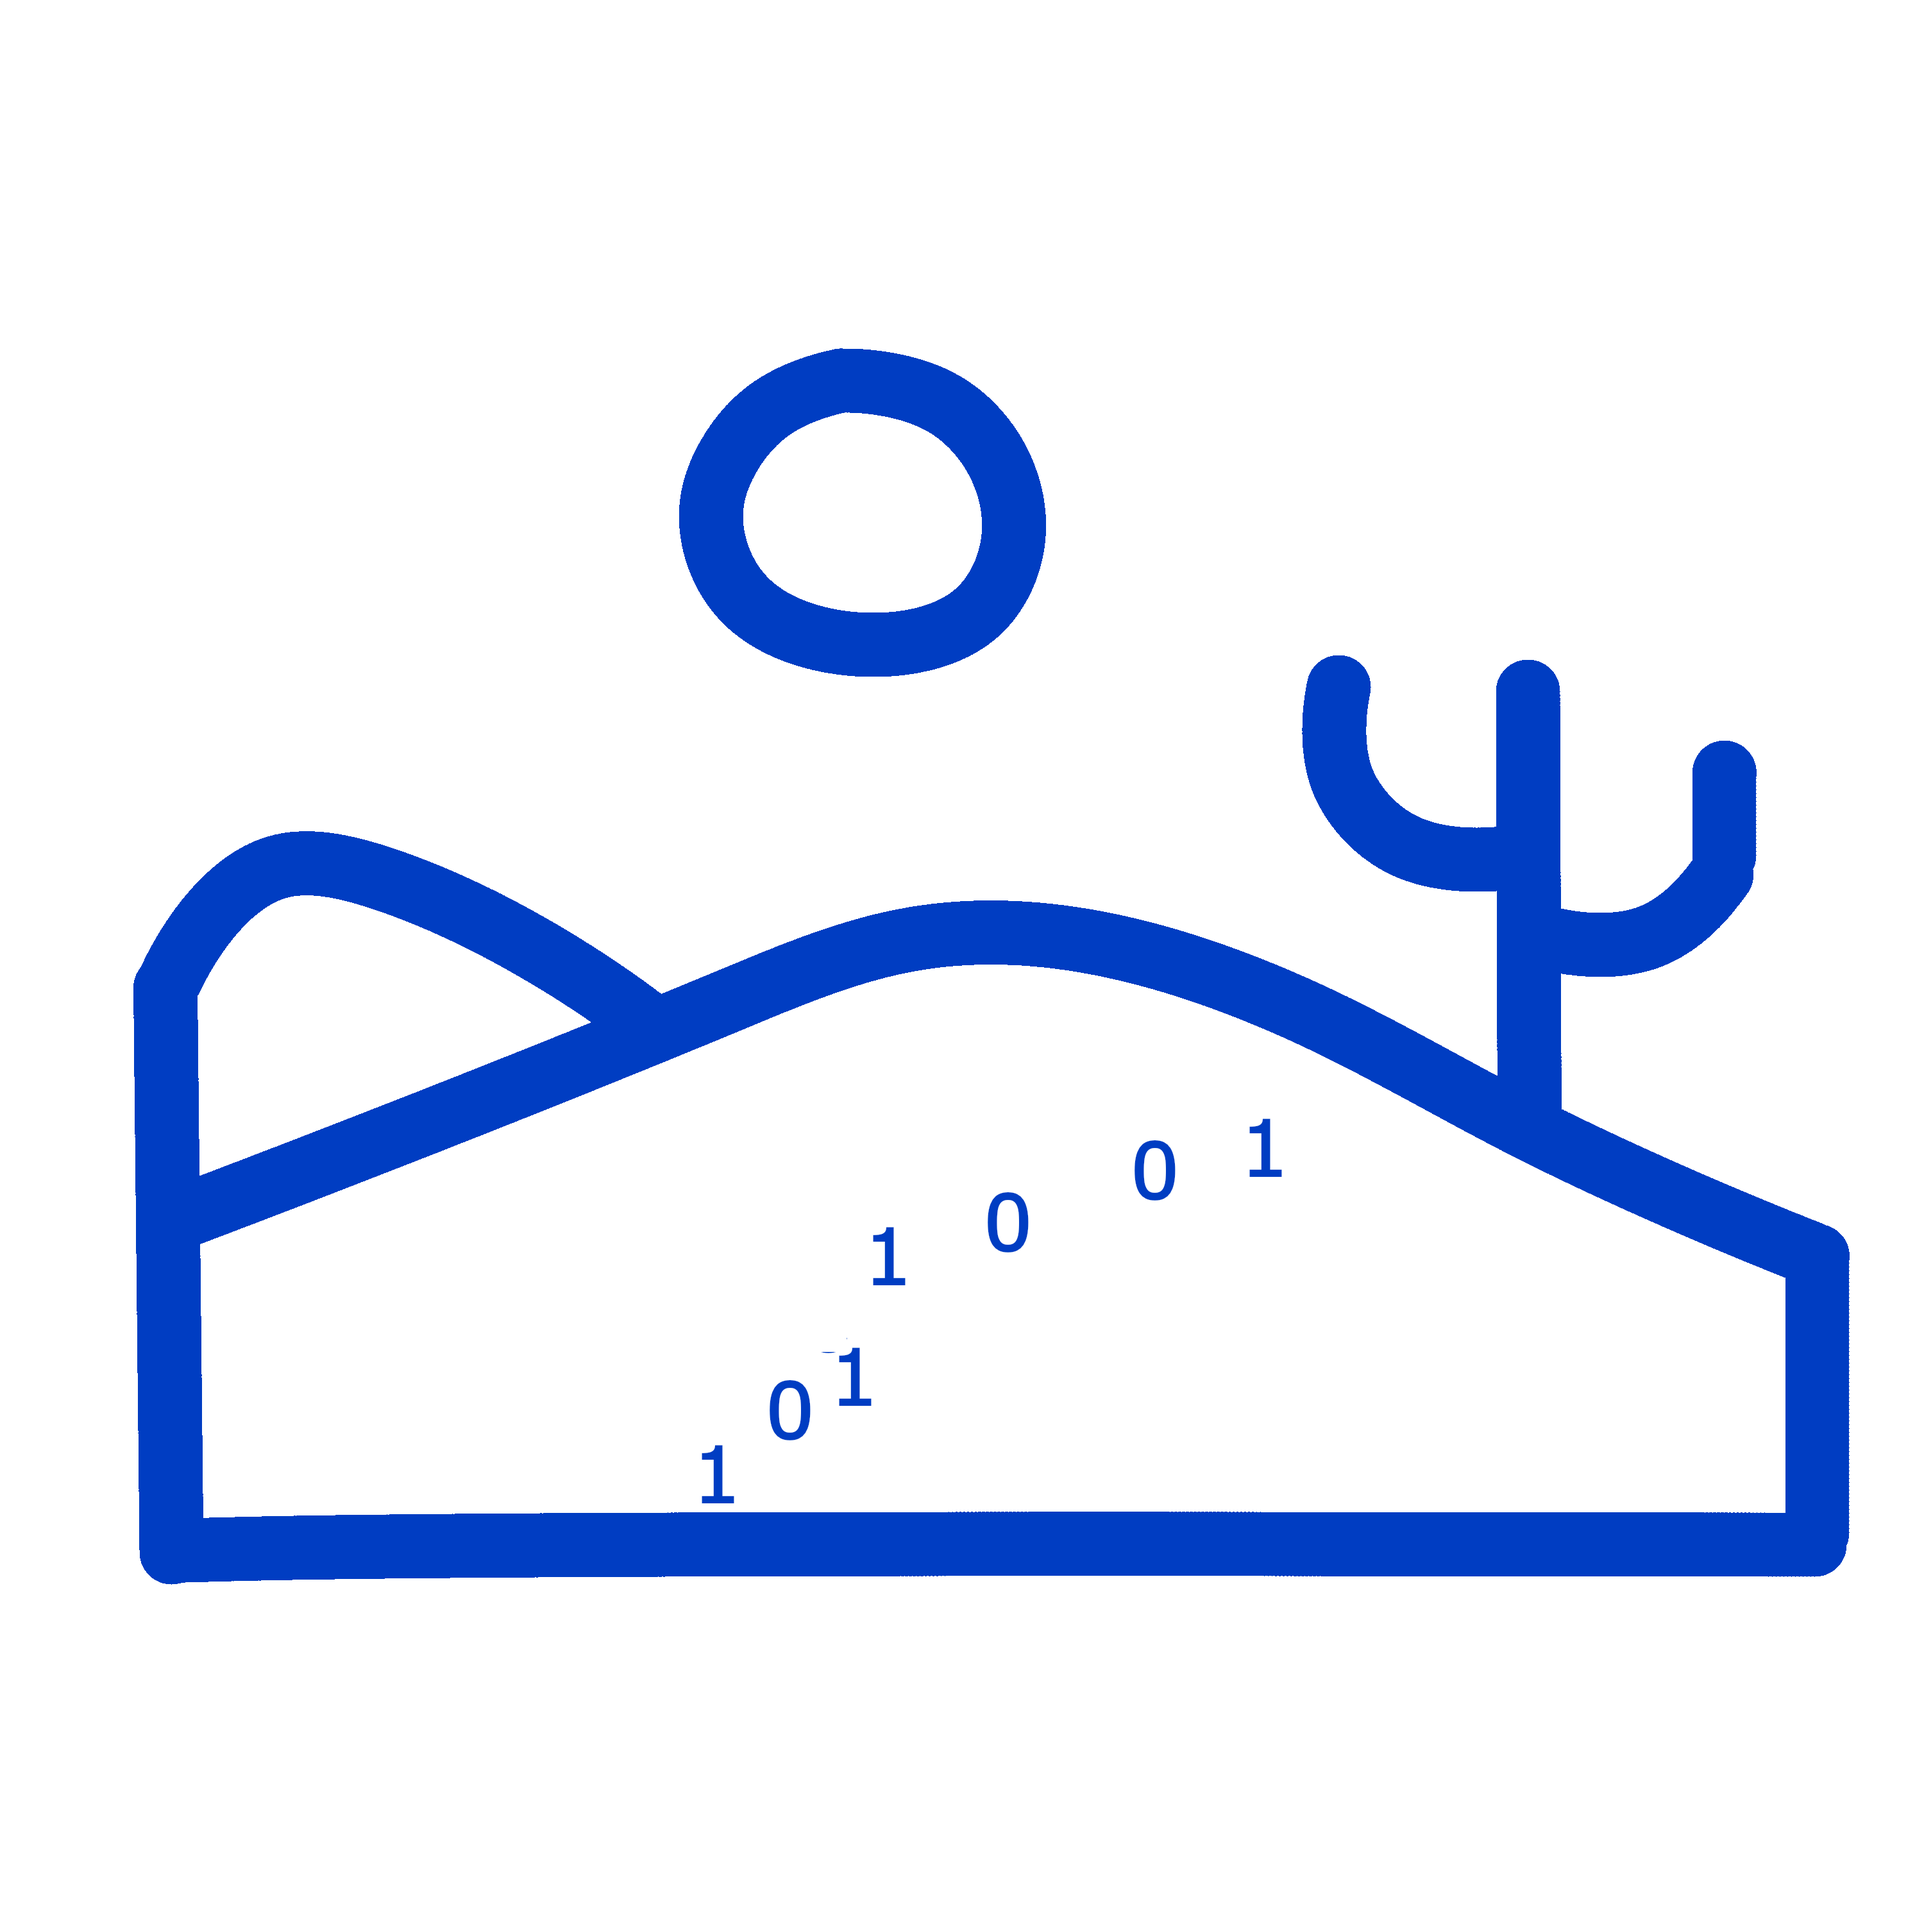
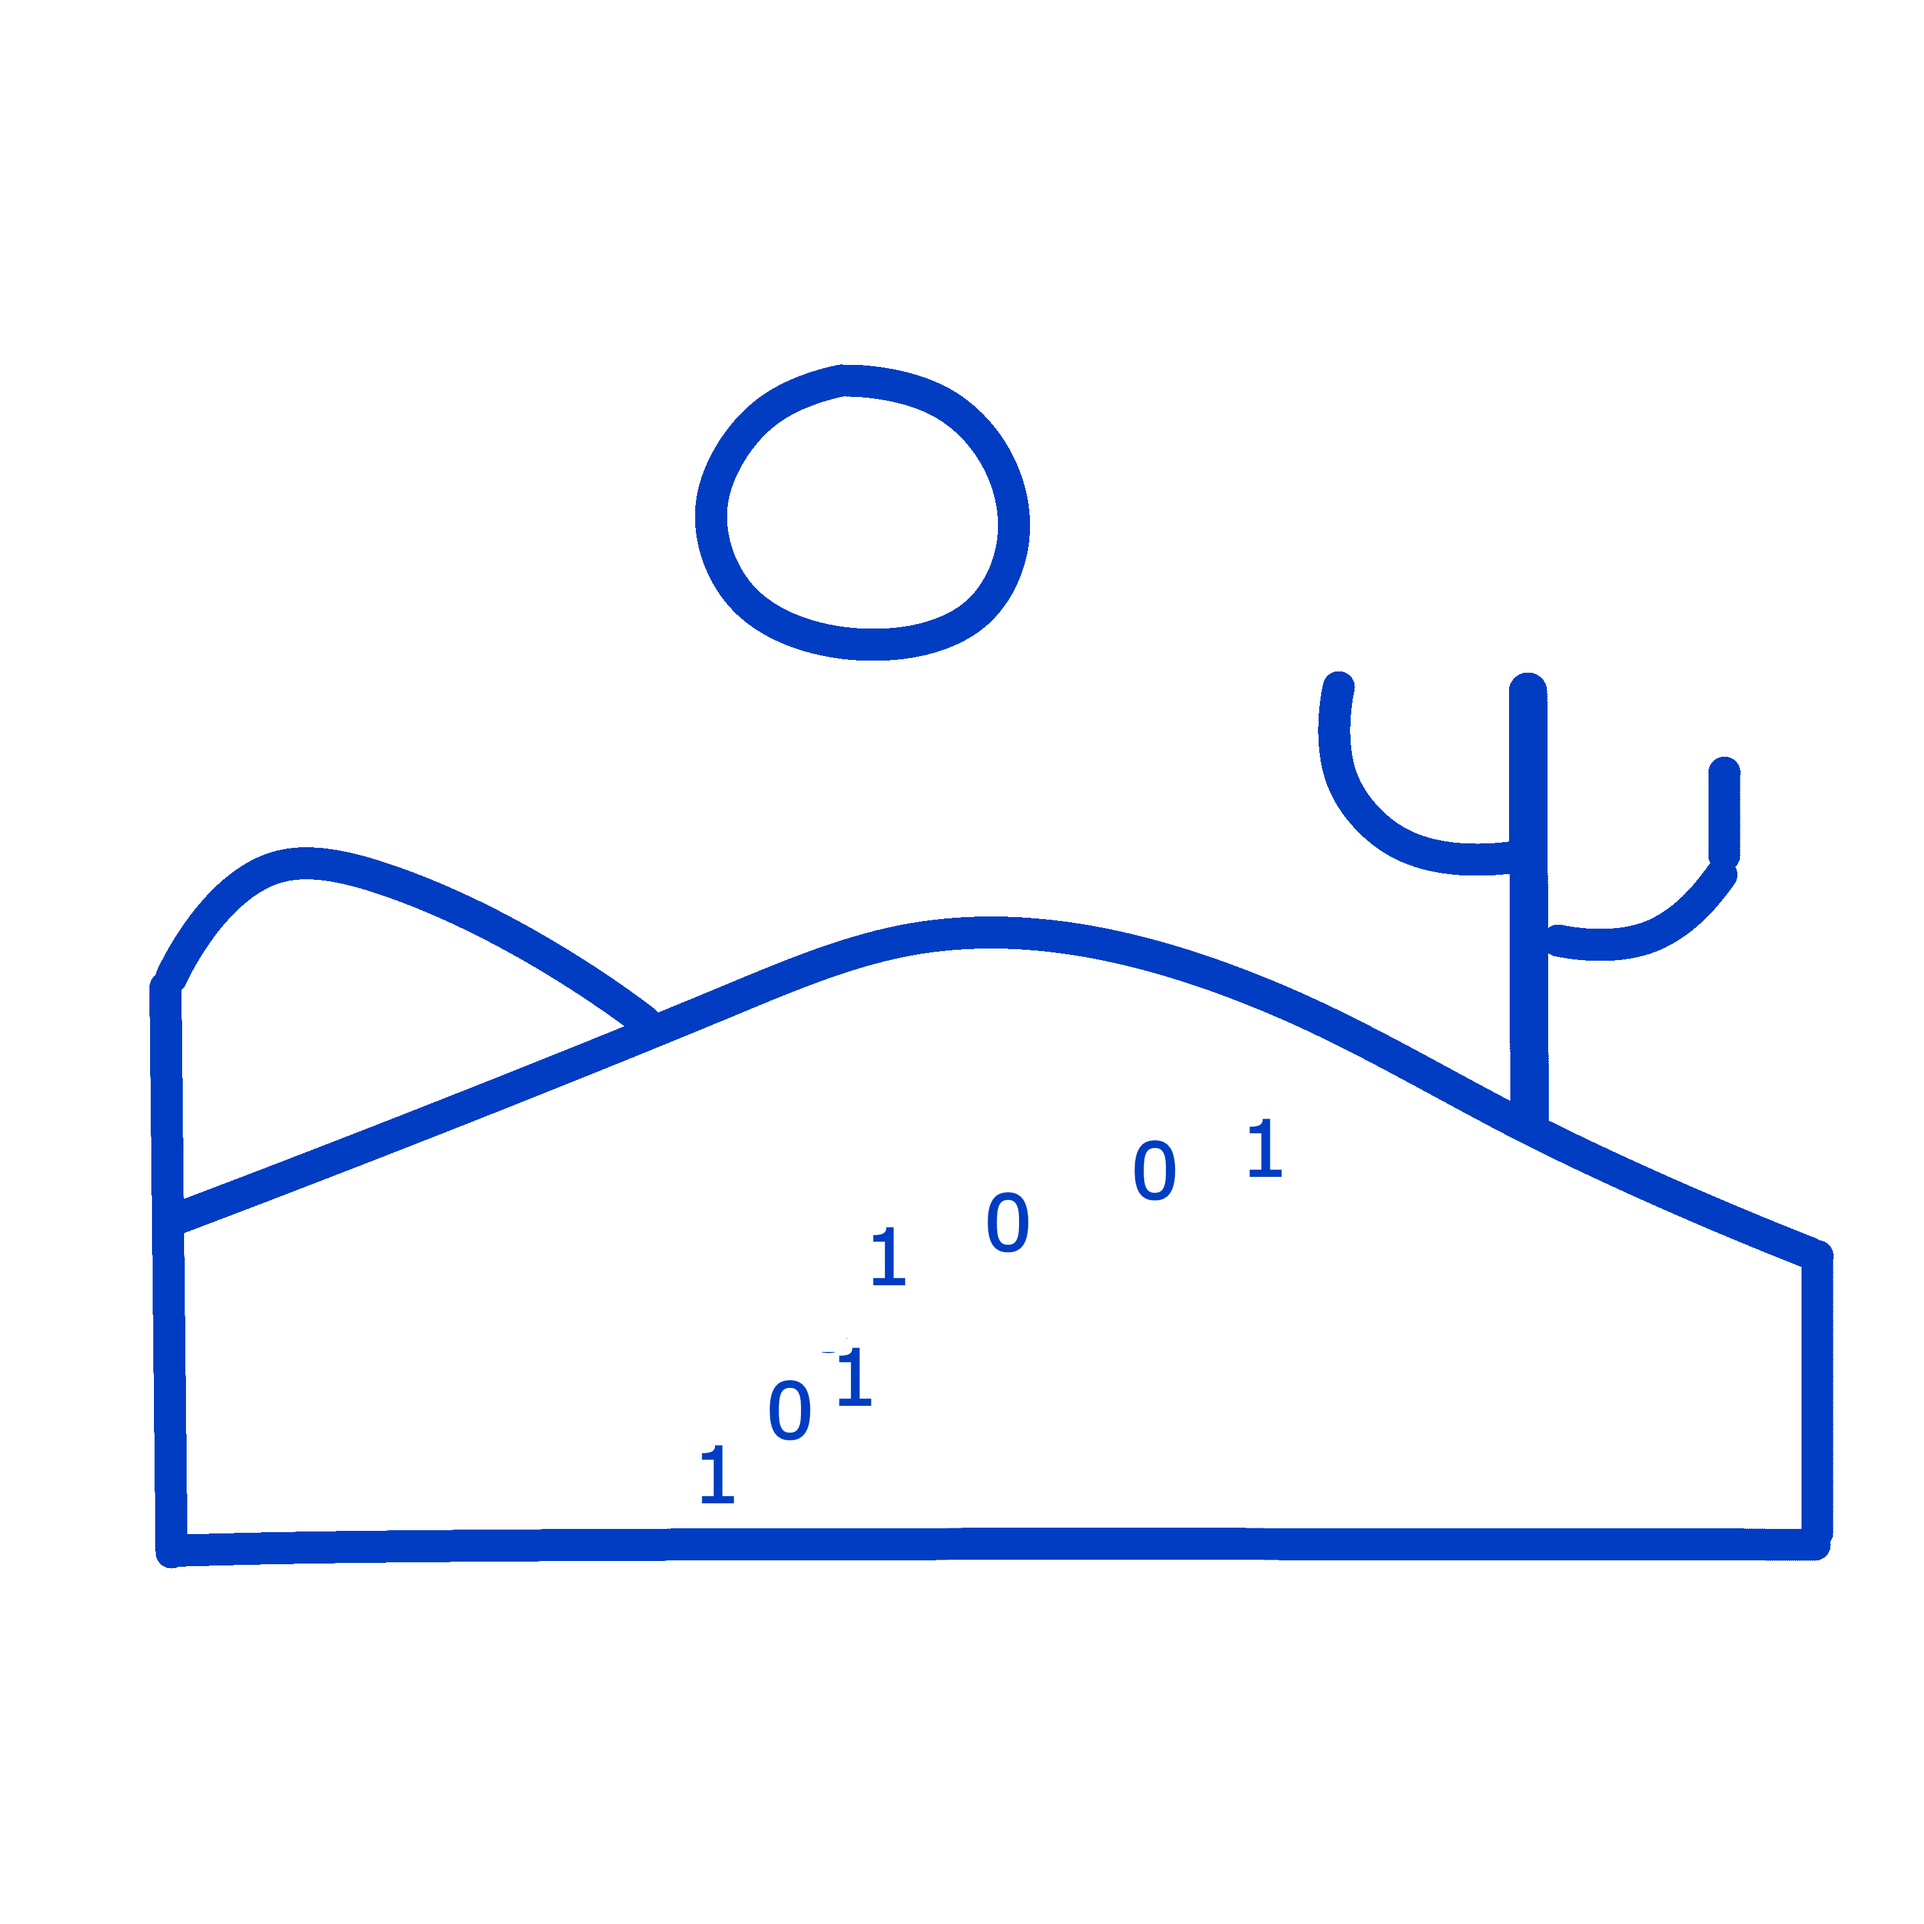
front

Changed region(s): [[0.062, 0.341, 0.961, 0.837], [0.341, 0.155, 0.558, 0.372]]

diff --git a/resources/js/components/EmptyIndexState.vue b/resources/js/components/EmptyIndexState.vue
@@ -27,6 +27,7 @@ import desertImage from '../assets/desert2.png'
   height: auto;
   object-fit: contain;
   opacity: 0.95;
+  animation: empty-float-up 4.8s ease-in-out infinite alternate;
 }
 
 .empty-title {
@@ -35,5 +36,20 @@ import desertImage from '../assets/desert2.png'
   font-size: 14px;
   font-weight: 600;
   text-align: center;
+}
+
+@keyframes empty-float-up {
+  from {
+    transform: translateY(8px);
+  }
+  to {
+    transform: translateY(-8px);
+  }
+}
+
+@media (prefers-reduced-motion: reduce) {
+  .empty-illustration {
+    animation: none;
+  }
 }
 </style>
